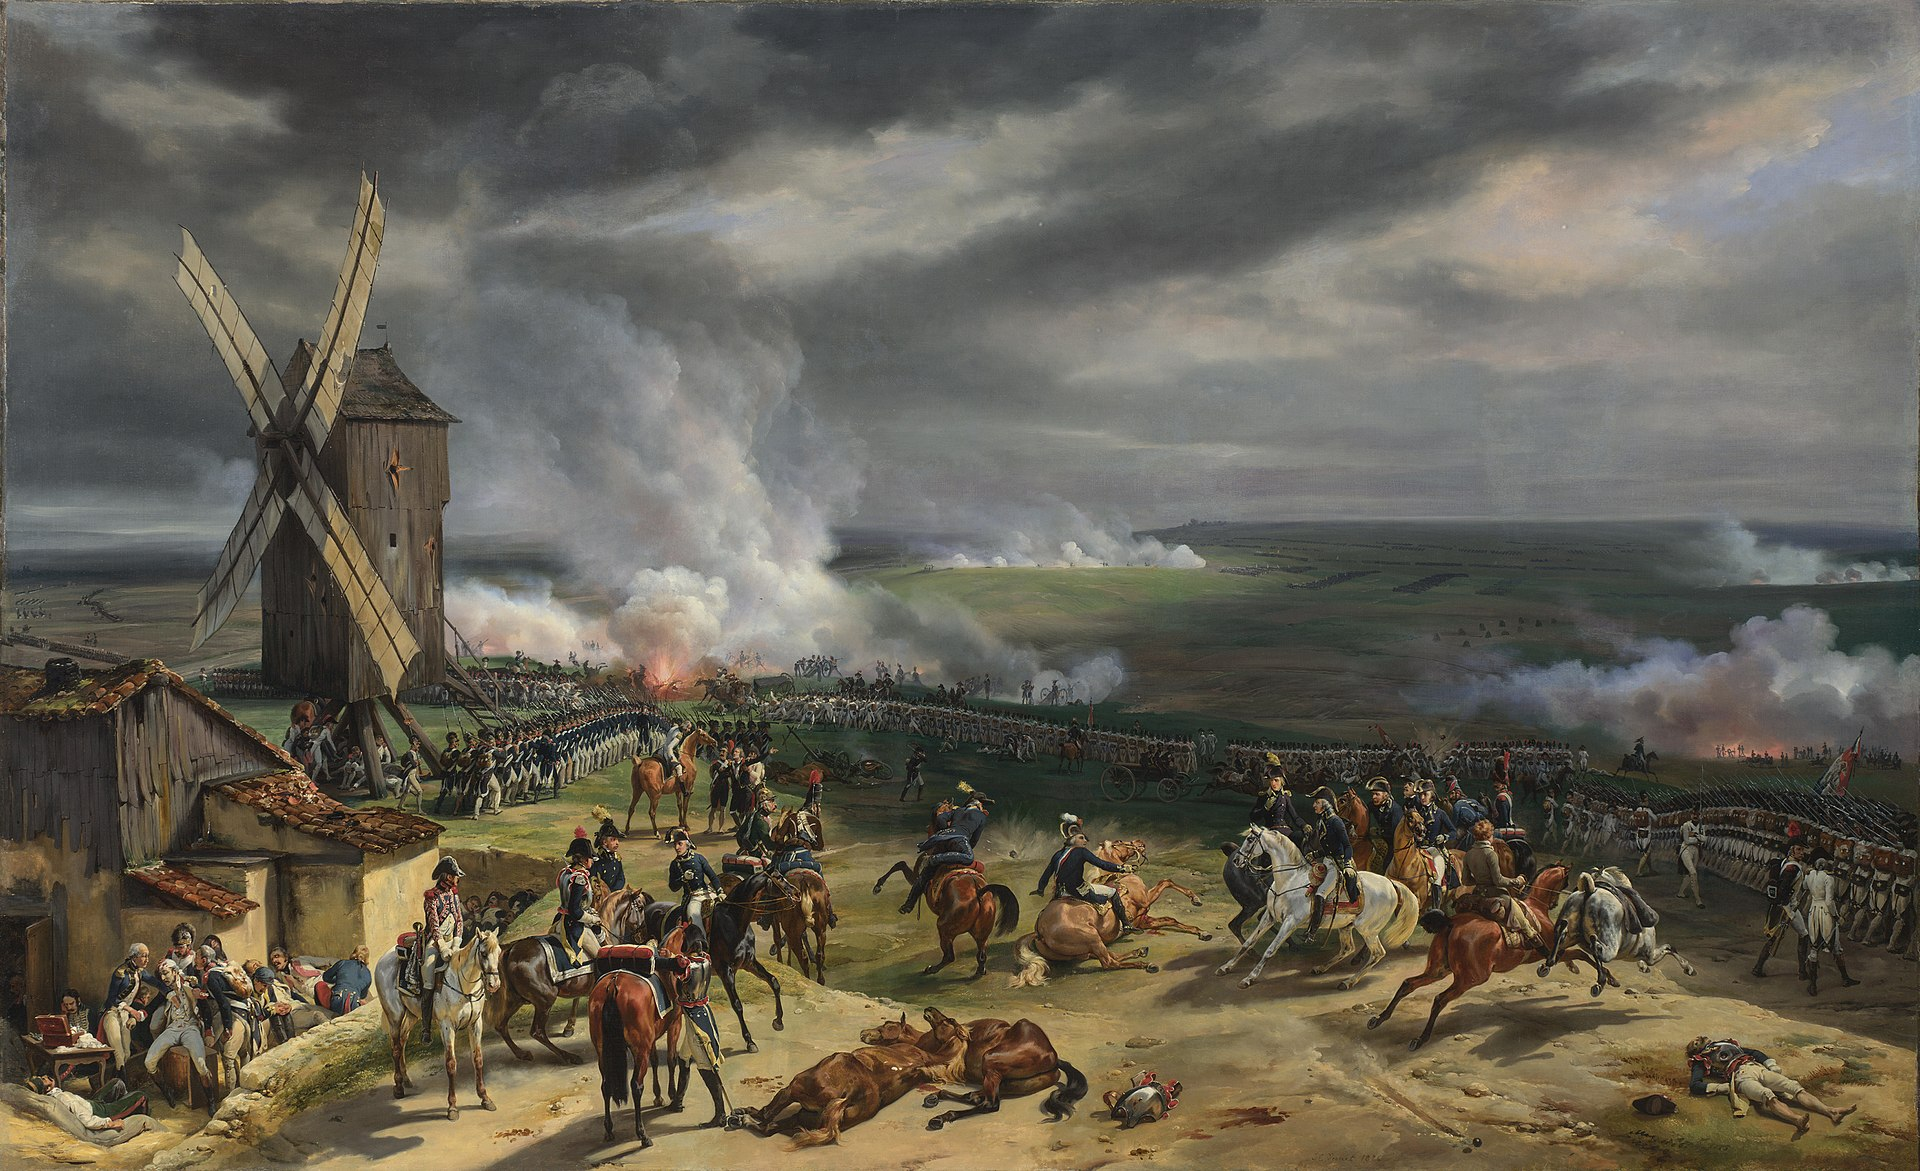
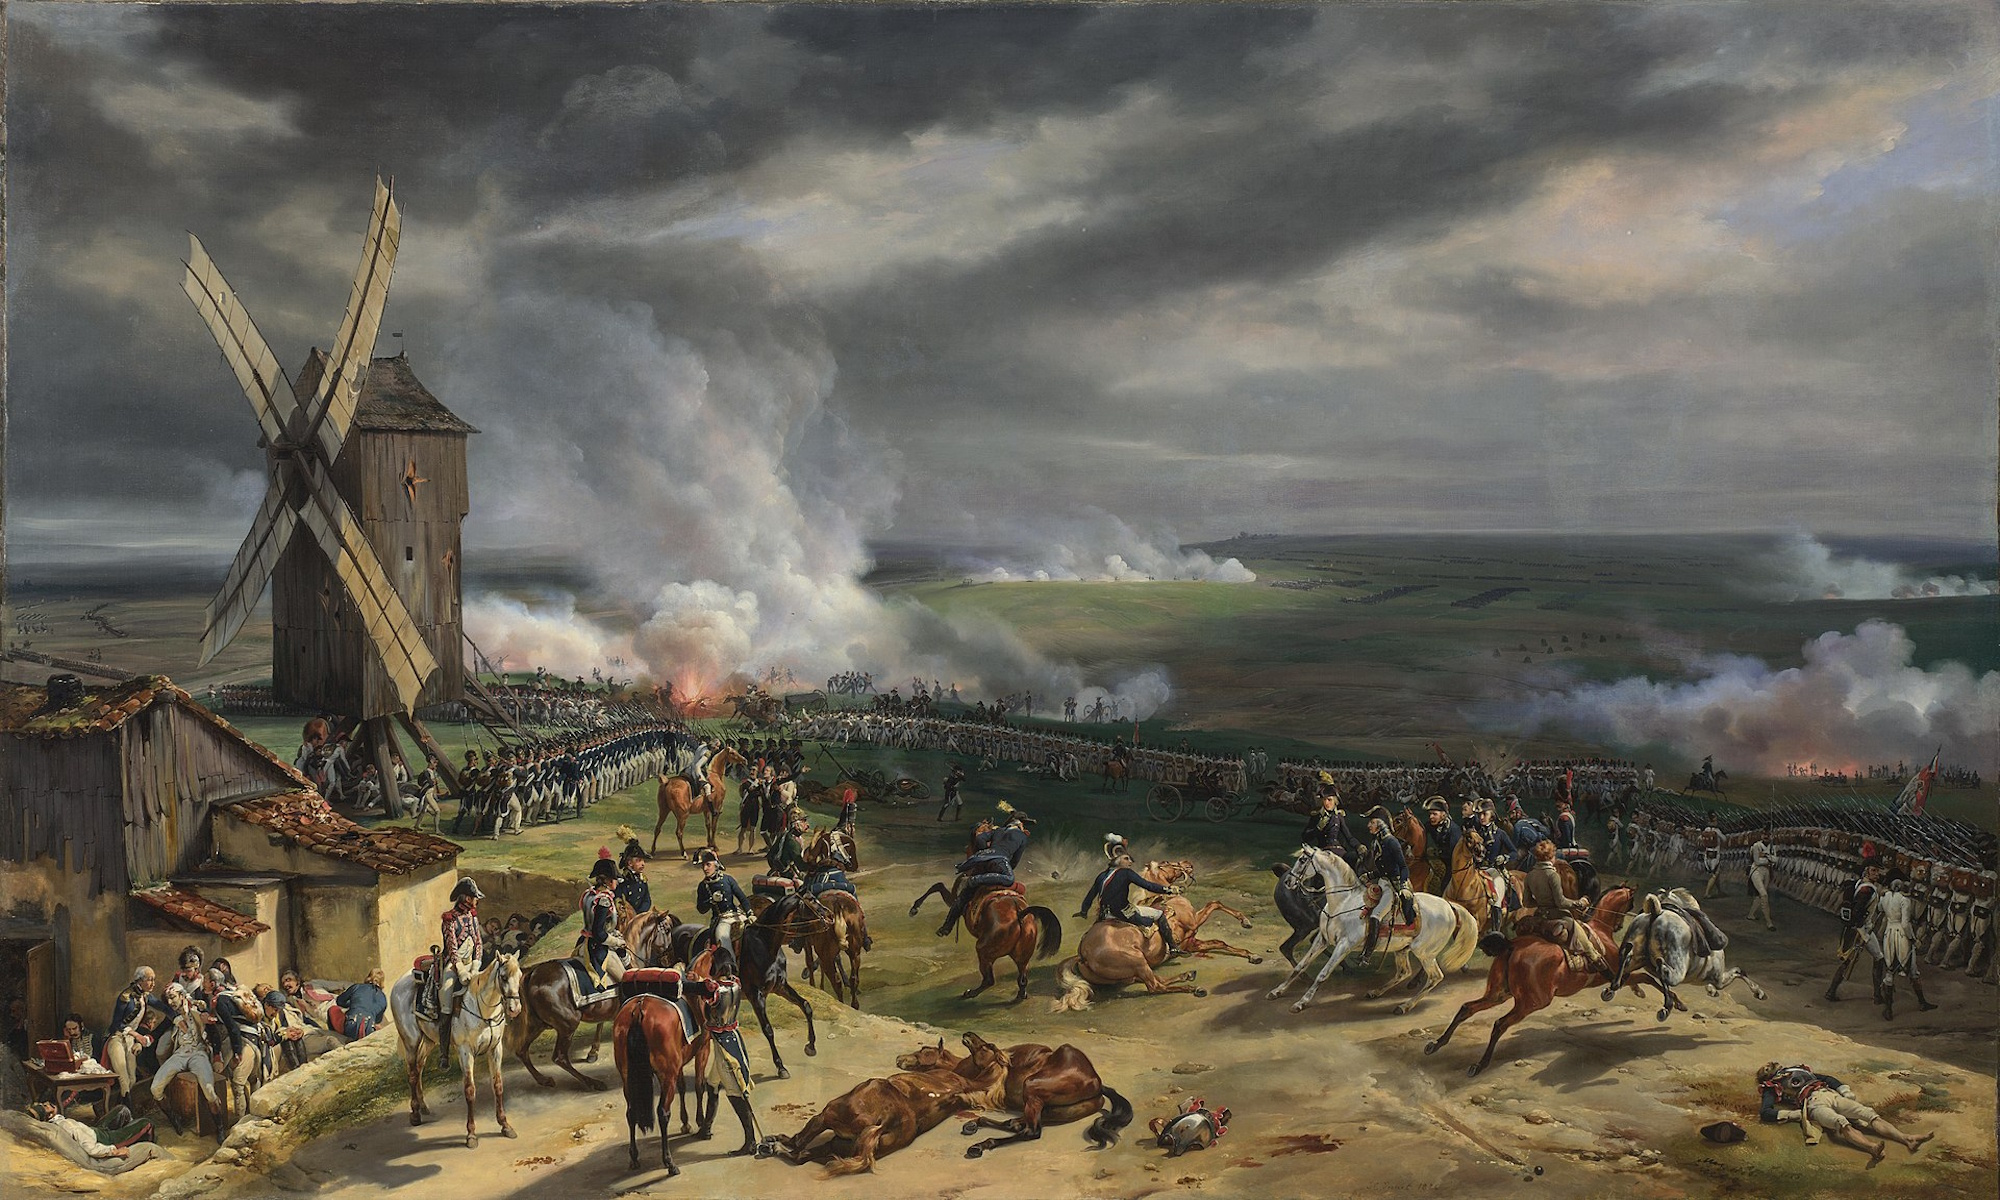
new javascript file and function added (script.js), and the image for the battle of valmy now changes to the battle of the nile when clicked. also a new img file depicting the battle of the nile and the image sizes were standardized

diff --git a/index.html b/index.html
@@ -8,6 +8,7 @@
     <link rel="stylesheet" href="style.css" />
     <title>Generals++ Showcase</title>
     <link rel="icon" type="image/x-icon" href="/images/favicon.ico">
+    <script src="script.js"></script>
   </head>
   <body>
     <!--Body-->
@@ -47,7 +48,12 @@
     <p>These are the current settings that are supported in the mod.</p>
     <div class="setting_box">
       <h3>French Revolutionary Wars[1792-1802]</h3>
-      <img class = "img_setting_box" src="images/1920px-Valmy_Battle_painting.jpg" alt="">
+      <button type="button" class="img_setting_box_button" onclick="change_setting_box()">
+        <img 
+        class="img_setting_box"
+        id="img_setting_box_french_revolutionary_wars_1792_1802"
+        src="images/1920px-Valmy_Battle_painting.jpg" alt="">
+      </button>
       <p class="setting_box_source">Battle of Valmy 1792, image taken from https://en.wikipedia.org/wiki/Battle_of_Valmy, artist Horace Vernet</p>
       <p class="setting_box_para">Liberty. Egality. Fraternity. The Nation of France, of equals, for equals, is born. The French
         Revolution has begun, and it's first order is to abolish the idea of total monarchism and birth, and bring the Enlightment Ideals

diff --git a/script.js b/script.js
@@ -1,0 +1,11 @@
+function change_setting_box() {
+    change_setting_box_image();
+}
+
+function change_setting_box_image(){
+    document.getElementById("img_setting_box_french_revolutionary_wars_1792_1802").src="images/The_Battle_of_the_Nile.jpg";
+}
+
+function change_setting_box_caption(){
+
+}

diff --git a/style.css b/style.css
@@ -155,3 +155,10 @@ a.a_style_1 {
     margin-top: 50px;
 }
 
+.img_setting_box_button {
+    border: none;
+    background: none;
+    padding: 0;
+    cursor: pointer;
+}
+
